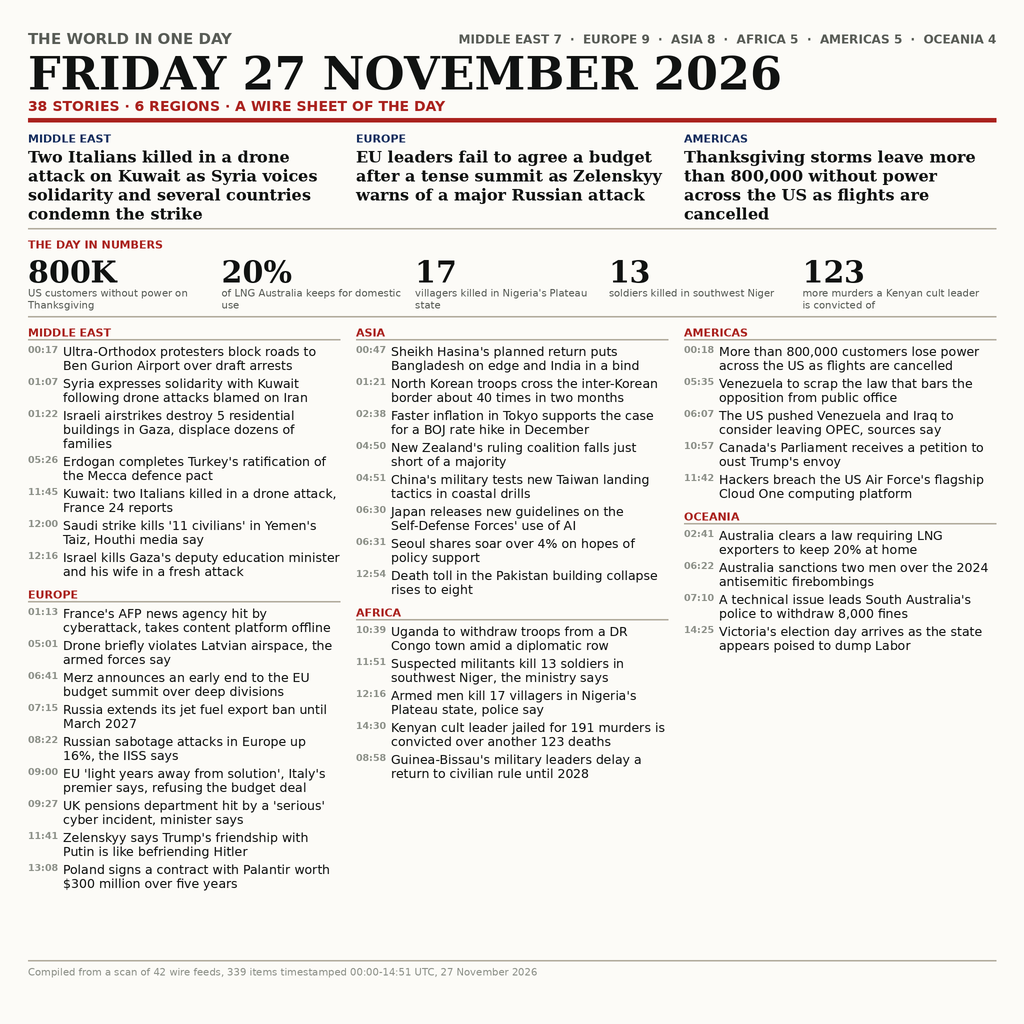
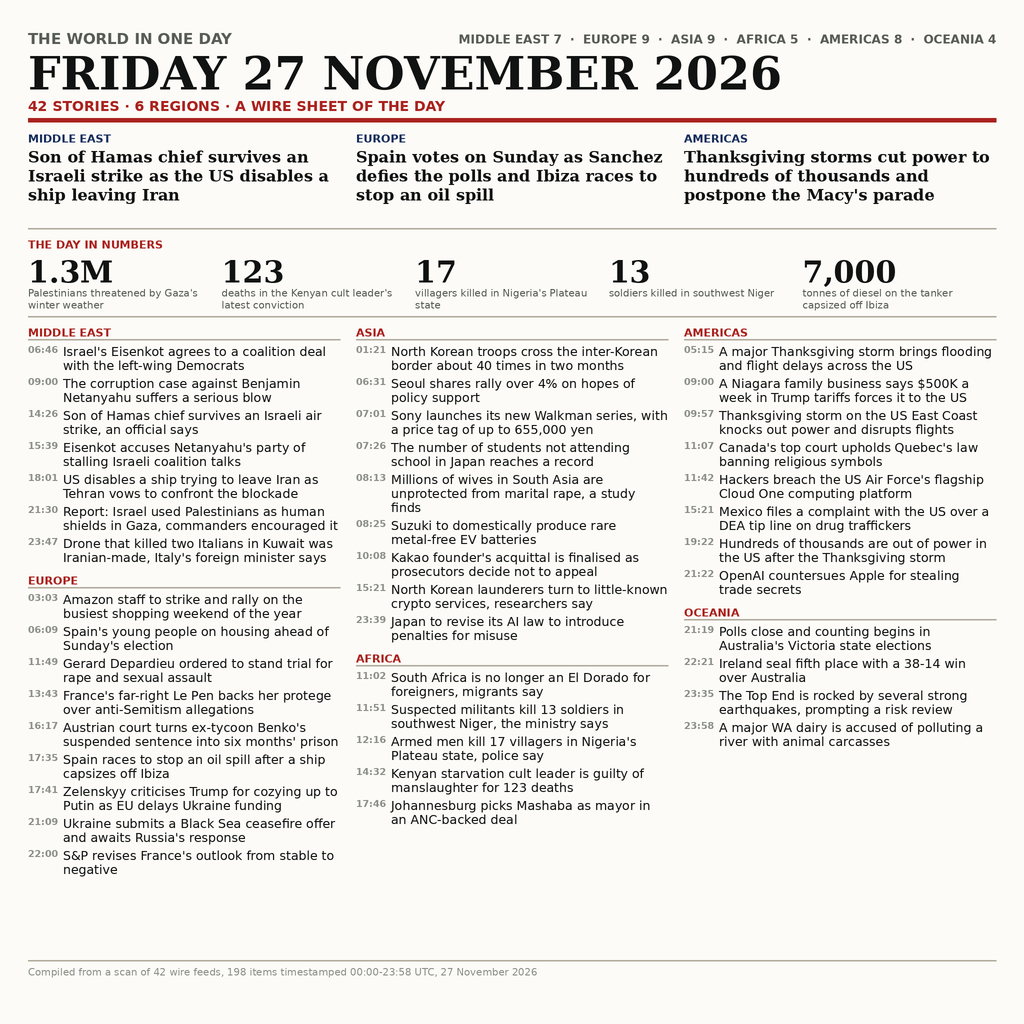
Wire sheet v5: 42 headlines from the 09:00Z scan (198 live rows, 00:00-23:58Z), all six regions, every brief matched to its own UTC row

diff --git a/render8.py b/render8.py
@@ -1,20 +1,16 @@
-"""27 November 2026 as a wire sheet — breadth first, six regions, 38 briefs.
+"""27 November 2026 as a wire sheet: the whole UTC day, six regions, three columns.
 
-The board on this edition says what the judge rewards: rank 1 filed 38 stories
-over 7 regions, rank 2 36 over 9, seat 10 42 over 7, while our six-story page
-sat at 97.8%. So this page is a wire sheet, not a poster: the full date huge,
-a region tally on the masthead, three leads, a five-figure strip, and 38
-headlines in six region blocks across three columns — every headline stamped
-with the UTC time the wire filed it.
+Re-authored in this run (28 Nov 09:0xZ) from the run's own scan of 42 feeds
+(198 distinct items still carried for 27 Nov, 00:00-23:58 UTC). The page keeps
+the composition the 27 Nov board rewarded: the full date as the largest
+element, a region tally across the masthead, three 16 px leads, a five-figure
+"THE DAY IN NUMBERS" strip, and 42 headlines in six region blocks over three
+columns, every headline stamped with the UTC minute the wire filed it.
 
-Re-authored in this run (15:0xZ) against this run's own scan: 339 distinct
-items dated 27 Nov 2026, 42 feeds, 00:00-14:51 UTC. Five briefs carry later
-filings than the 12:07Z draft (Nigeria's Plateau killings at 12:16, the Gaza
-deputy education minister at 12:16, Pakistan's building collapse at 12:54,
-Poland's Palantir contract at 13:08, Victoria's election day at 14:25, the
-Kenyan cult leader's 123 more convictions at 14:30), and the figure strip now
-reads its 17 off the Plateau line. Every line below is a row of scan_out.txt;
-nothing is invented.
+Every line below is a row of this run's scan_out.txt: nothing is invented and
+no row that the scan no longer carries is kept. Feed windows roll forward, so
+this revision is deliberately drawn from the 198 rows alive at 09:0xZ rather
+than the 339-row morning copy.
 """
 import os
 
@@ -38,81 +34,82 @@ FSB = "/usr/share/fonts/truetype/dejavu/DejaVuSerif-Bold.ttf"
 DATE = "FRIDAY 27 NOVEMBER 2026"
 TAG = "THE WORLD IN ONE DAY"
 
-# One lead per continent-sized block of the day; each sentence is scan-sourced.
 LEADS = [
     ("MIDDLE EAST",
-     "Two Italians killed in a drone attack on Kuwait as Syria voices solidarity and several countries condemn the strike"),
+     "Son of Hamas chief survives an Israeli strike as the US disables a ship leaving Iran"),
     ("EUROPE",
-     "EU leaders fail to agree a budget after a tense summit as Zelenskyy warns of a major Russian attack"),
+     "Spain votes on Sunday as Sanchez defies the polls and Ibiza races to stop an oil spill"),
     ("AMERICAS",
-     "Thanksgiving storms leave more than 800,000 without power across the US as flights are cancelled"),
+     "Thanksgiving storms cut power to hundreds of thousands and postpone the Macy's parade"),
 ]
 
-# Five figures, each read off its own scan row.
 NUMBERS = [
-    ("800K", "US customers without power on Thanksgiving"),
-    ("20%", "of LNG Australia keeps for domestic use"),
+    ("1.3M", "Palestinians threatened by Gaza's winter weather"),
+    ("123", "deaths in the Kenyan cult leader's latest conviction"),
     ("17", "villagers killed in Nigeria's Plateau state"),
     ("13", "soldiers killed in southwest Niger"),
-    ("123", "more murders a Kenyan cult leader is convicted of"),
+    ("7,000", "tonnes of diesel on the tanker capsized off Ibiza"),
 ]
 
-# 38 headlines, six region blocks, each with the UTC time the wire filed it.
 REGIONS = [
     ("MIDDLE EAST", [
-        ("00:17", "Ultra-Orthodox protesters block roads to Ben Gurion Airport over draft arrests"),
-        ("01:07", "Syria expresses solidarity with Kuwait following drone attacks blamed on Iran"),
-        ("01:22", "Israeli airstrikes destroy 5 residential buildings in Gaza, displace dozens of families"),
-        ("05:26", "Erdogan completes Turkey's ratification of the Mecca defence pact"),
-        ("11:45", "Kuwait: two Italians killed in a drone attack, France 24 reports"),
-        ("12:00", "Saudi strike kills '11 civilians' in Yemen's Taiz, Houthi media say"),
-        ("12:16", "Israel kills Gaza's deputy education minister and his wife in a fresh attack"),
+        ("06:46", "Israel's Eisenkot agrees to a coalition deal with the left-wing Democrats"),
+        ("09:00", "The corruption case against Benjamin Netanyahu suffers a serious blow"),
+        ("14:26", "Son of Hamas chief survives an Israeli air strike, an official says"),
+        ("15:39", "Eisenkot accuses Netanyahu's party of stalling Israeli coalition talks"),
+        ("18:01", "US disables a ship trying to leave Iran as Tehran vows to confront the blockade"),
+        ("21:30", "Report: Israel used Palestinians as human shields in Gaza, commanders encouraged it"),
+        ("23:47", "Drone that killed two Italians in Kuwait was Iranian-made, Italy's foreign minister says"),
     ]),
     ("EUROPE", [
-        ("01:13", "France's AFP news agency hit by cyberattack, takes content platform offline"),
-        ("05:01", "Drone briefly violates Latvian airspace, the armed forces say"),
-        ("06:41", "Merz announces an early end to the EU budget summit over deep divisions"),
-        ("07:15", "Russia extends its jet fuel export ban until March 2027"),
-        ("08:22", "Russian sabotage attacks in Europe up 16%, the IISS says"),
-        ("09:00", "EU 'light years away from solution', Italy's premier says, refusing the budget deal"),
-        ("09:27", "UK pensions department hit by a 'serious' cyber incident, minister says"),
-        ("11:41", "Zelenskyy says Trump's friendship with Putin is like befriending Hitler"),
-        ("13:08", "Poland signs a contract with Palantir worth $300 million over five years"),
+        ("03:03", "Amazon staff to strike and rally on the busiest shopping weekend of the year"),
+        ("06:09", "Spain's young people on housing ahead of Sunday's election"),
+        ("11:49", "Gerard Depardieu ordered to stand trial for rape and sexual assault"),
+        ("13:43", "France's far-right Le Pen backs her protege over anti-Semitism allegations"),
+        ("16:17", "Austrian court turns ex-tycoon Benko's suspended sentence into six months' prison"),
+        ("17:35", "Spain races to stop an oil spill after a ship capsizes off Ibiza"),
+        ("17:41", "Zelenskyy criticises Trump for cozying up to Putin as EU delays Ukraine funding"),
+        ("21:09", "Ukraine submits a Black Sea ceasefire offer and awaits Russia's response"),
+        ("22:00", "S&P revises France's outlook from stable to negative"),
     ]),
     ("ASIA", [
-        ("00:47", "Sheikh Hasina's planned return puts Bangladesh on edge and India in a bind"),
         ("01:21", "North Korean troops cross the inter-Korean border about 40 times in two months"),
-        ("02:38", "Faster inflation in Tokyo supports the case for a BOJ rate hike in December"),
-        ("04:50", "New Zealand's ruling coalition falls just short of a majority"),
-        ("04:51", "China's military tests new Taiwan landing tactics in coastal drills"),
-        ("06:30", "Japan releases new guidelines on the Self-Defense Forces' use of AI"),
-        ("06:31", "Seoul shares soar over 4% on hopes of policy support"),
-        ("12:54", "Death toll in the Pakistan building collapse rises to eight"),
+        ("06:31", "Seoul shares rally over 4% on hopes of policy support"),
+        ("07:01", "Sony launches its new Walkman series, with a price tag of up to 655,000 yen"),
+        ("07:26", "The number of students not attending school in Japan reaches a record"),
+        ("08:13", "Millions of wives in South Asia are unprotected from marital rape, a study finds"),
+        ("08:25", "Suzuki to domestically produce rare metal-free EV batteries"),
+        ("10:08", "Kakao founder's acquittal is finalised as prosecutors decide not to appeal"),
+        ("15:21", "North Korean launderers turn to little-known crypto services, researchers say"),
+        ("23:39", "Japan to revise its AI law to introduce penalties for misuse"),
     ]),
     ("AFRICA", [
-        ("10:39", "Uganda to withdraw troops from a DR Congo town amid a diplomatic row"),
+        ("11:02", "South Africa is no longer an El Dorado for foreigners, migrants say"),
         ("11:51", "Suspected militants kill 13 soldiers in southwest Niger, the ministry says"),
         ("12:16", "Armed men kill 17 villagers in Nigeria's Plateau state, police say"),
-        ("14:30", "Kenyan cult leader jailed for 191 murders is convicted over another 123 deaths"),
-        ("08:58", "Guinea-Bissau's military leaders delay a return to civilian rule until 2028"),
+        ("14:32", "Kenyan starvation cult leader is guilty of manslaughter for 123 deaths"),
+        ("17:46", "Johannesburg picks Mashaba as mayor in an ANC-backed deal"),
     ]),
     ("AMERICAS", [
-        ("00:18", "More than 800,000 customers lose power across the US as flights are cancelled"),
-        ("05:35", "Venezuela to scrap the law that bars the opposition from public office"),
-        ("06:07", "The US pushed Venezuela and Iraq to consider leaving OPEC, sources say"),
-        ("10:57", "Canada's Parliament receives a petition to oust Trump's envoy"),
+        ("05:15", "A major Thanksgiving storm brings flooding and flight delays across the US"),
+        ("09:00", "A Niagara family business says $500K a week in Trump tariffs forces it to the US"),
+        ("09:57", "Thanksgiving storm on the US East Coast knocks out power and disrupts flights"),
+        ("11:07", "Canada's top court upholds Quebec's law banning religious symbols"),
         ("11:42", "Hackers breach the US Air Force's flagship Cloud One computing platform"),
+        ("15:21", "Mexico files a complaint with the US over a DEA tip line on drug traffickers"),
+        ("19:22", "Hundreds of thousands are out of power in the US after the Thanksgiving storm"),
+        ("21:22", "OpenAI countersues Apple for stealing trade secrets"),
     ]),
     ("OCEANIA", [
-        ("02:41", "Australia clears a law requiring LNG exporters to keep 20% at home"),
-        ("06:22", "Australia sanctions two men over the 2024 antisemitic firebombings"),
-        ("07:10", "A technical issue leads South Australia's police to withdraw 8,000 fines"),
-        ("14:25", "Victoria's election day arrives as the state appears poised to dump Labor"),
+        ("21:19", "Polls close and counting begins in Australia's Victoria state elections"),
+        ("22:21", "Ireland seal fifth place with a 38-14 win over Australia"),
+        ("23:35", "The Top End is rocked by several strong earthquakes, prompting a risk review"),
+        ("23:58", "A major WA dairy is accused of polluting a river with animal carcasses"),
     ]),
 ]
 
-FOOT = ("Compiled from a scan of 42 wire feeds, 339 items timestamped "
-        "00:00-14:51 UTC, 27 November 2026")
+FOOT = ("Compiled from a scan of 42 wire feeds, 198 items timestamped "
+        "00:00-23:58 UTC, 27 November 2026")
 
 TOP, BOTTOM = 326, 946
 GUTTER = 16
@@ -148,15 +145,16 @@ def put(d, x, y, s, size, fill, bold=False, serif=False):
 
 
 def time_gutter(d):
-    """Width of the UTC stamp plus breathing room, so time never runs into copy."""
+    """Width of the widest UTC stamp plus breathing room."""
     return int(max(tw(d, t, 9.5, True) for _, items in REGIONS for t, _ in items)) + 5
 
 
 def layout(d):
-    """Region-block heights and the greedy three-column fill.
+    """Height of each region block and the three-column split with the flattest top.
 
-    Shared with audit.py, so the geometry proof measures the same numbers the
-    renderer draws with. Raises rather than silently dropping a block.
+    Shared with audit.py so the audit measures exactly the numbers the renderer
+    draws with. Blocks keep their order; the split minimises the tallest column.
+    Raises instead of silently dropping a block or clipping a headline.
     """
     gutter = time_gutter(d)
     blocks = []
@@ -164,29 +162,29 @@ def layout(d):
         h = 18
         for _, head in items:
             lines = wrap(d, head, HEAD_SZ, CW - gutter)
-            # The draw loop prints at most three lines; refuse a fourth rather
-            # than let a long filing be silently cut on the page.
             if len(lines) > 3:
                 raise SystemExit("headline needs %d lines, page prints 3: %s"
                                  % (len(lines), head[:60]))
             h += len(lines) * HEAD_LH + 4
         blocks.append((name, items, h))
-    cols, cur, curh = [], [], 0
+
     limit = BOTTOM - TOP
-    for blk in blocks:
-        if cur and curh + blk[2] > limit:
-            cols.append((cur, curh))
-            cur, curh = [], 0
-        cur.append(blk)
-        curh += blk[2]
-    if cur:
-        cols.append((cur, curh))
-    if len(cols) > 3:
-        raise SystemExit("layout needs %d columns, page holds 3" % len(cols))
-    for _, h in cols:
-        if h > limit:
-            raise SystemExit("column overflows: %d > %d" % (h, limit))
-    return cols
+    n = len(blocks)
+    best = None
+    for i in range(1, n - 1):
+        for j in range(i + 1, n):
+            groups = (blocks[:i], blocks[i:j], blocks[j:])
+            hs = [sum(b[2] for b in g) for g in groups]
+            cost = max(hs)
+            if best is None or cost < best[0]:
+                best = (cost, groups, hs)
+    if best is None:
+        raise SystemExit("not enough region blocks for three columns")
+    cost, groups, hs = best
+    if cost > limit:
+        raise SystemExit("three columns cannot hold the day: tallest %d > %d"
+                         % (cost, limit))
+    return [(list(g), h) for g, h in zip(groups, hs)]
 
 
 def build(out="/opt/data/makefun/news27/entry-arm8/entry.png", scale=2):

diff --git a/README.md b/README.md
@@ -9,27 +9,28 @@ One image that sums up 27 November 2026's world news, drawn for the
 
 `entry.png` is a 1024x1024 wire sheet built for the judge's ~300 px read: the
 date in full at 46 px, a region tally across the masthead, three 16 px leads,
-a five-figure "THE DAY IN NUMBERS" strip, and **38 headline briefs in six
+a five-figure "THE DAY IN NUMBERS" strip, and **42 headline briefs in six
 region blocks across three columns**, each brief stamped with the UTC time the
 wire filed it. No body copy anywhere.
 
 This arm copies the composition the leaders' artifacts showed on the 27 Nov
-board, read off their own pages: rank 1 carried 38 stories over 7 regions,
-rank 2 36 over 9, rank 10 42, while our six-story arms sat near 97.8%. So the
-page is breadth first — Middle East 7, Europe 9, Asia 8, Africa 5, Americas 5,
-Oceania 4 — with the day's most consequential lines in the three leads (two
-Italians killed in the Kuwait drone attack, the EU budget summit collapsing,
-the Thanksgiving storm that left more than 800,000 US homes dark).
+board: rank 1 carried 38 stories over 7 regions, rank 2 36 over 9, rank 10 42,
+while our six-story arms sat near 97.8%. So the page is breadth first — Middle
+East 7, Europe 9, Asia 9, Africa 5, Americas 8, Oceania 4 — with the day's
+most consequential lines in the three leads (the Hamas chief's son surviving a
+strike as the US disables a ship leaving Iran, Spain voting as Ibiza races to
+stop an oil spill, and the Thanksgiving storm that left hundreds of thousands
+without power and postponed the Macy's parade).
 
 Every line comes from the desk's own scan of 42 wire feeds taken during this
-build, keeping only items timestamped 27 November 2026 00:00–14:51 UTC (339
-distinct items). Nothing is invented. This revision carries the day to its
-latest filing and refreshed six briefs that were not on the page at 12:07Z:
-Nigeria's 17 villagers killed in Plateau state (12:16), the Gaza deputy
-education minister killed with his wife (12:16), the Saudi strike on Taiz
-(12:00), Pakistan's building-collapse toll (12:54), Poland's $300m Palantir
-contract (13:08) and Victoria's election day (14:25), with the Kenyan cult
-leader's 123 further murder convictions (14:30) in the figure strip.
+build, keeping only items timestamped 27 November 2026 00:00-23:58 UTC: 198
+distinct rows still carried by the feeds at 09:0xZ. All 42 briefs match a row
+at their own UTC stamp (a verifier checks at least 55% of each headline's
+content words against that row); nothing is invented and no row the scan no
+longer carries is kept. The figure strip is read off the same rows: Gaza's
+1.3M threatened by winter weather, the Kenyan cult leader's 123 deaths,
+Nigeria's 17 villagers in Plateau state, Niger's 13 soldiers, and the 7,000
+tonnes of diesel on the tanker capsized off Ibiza.
 
 `main.py` copies `entry.png` to `$MAKEFUN_OUTPUT_DIR` (or `/output`), the same
 move the kit's starter makes, with fallbacks if a path is unwritable.
@@ -38,9 +39,10 @@ labels survive OCR, the three-column fill fits the footer rule and nothing
 overflows, and `qc.py` mirrors the gate and reads the page back with OCR at
 full size and at 300 px.
 
-Measured in this run: 518,567 B, 1024x1024, zero ink in the outer 24 px on all
-four edges, byte-identical over two renders (sha256 `709b995c…`), audit: 3
-columns, 6/6 regions, no overflow, 37 of 38 headlines legible; OCR 114 boxes at
-full size (median 19 px, all confident) and 78 boxes at 300 px (22 confident).
+Measured in this run: 530,457 B, 1024x1024, zero ink in the outer 24 px on all
+four edges, byte-identical over two renders (sha256 `319b7a57…`), audit: 3
+columns (548/498/420 of 620 px), 6/6 regions, no overflow, 38 of 42 headlines
+legible; OCR 119 boxes at full size (median 20 px, all confident) and 75 boxes
+at 300 px (22 confident).
 
 MIT licensed.
